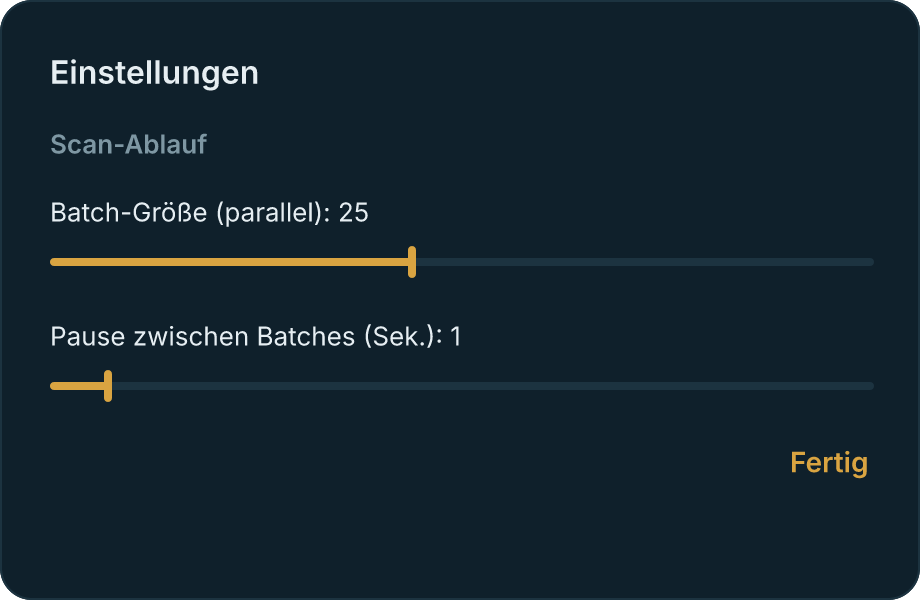
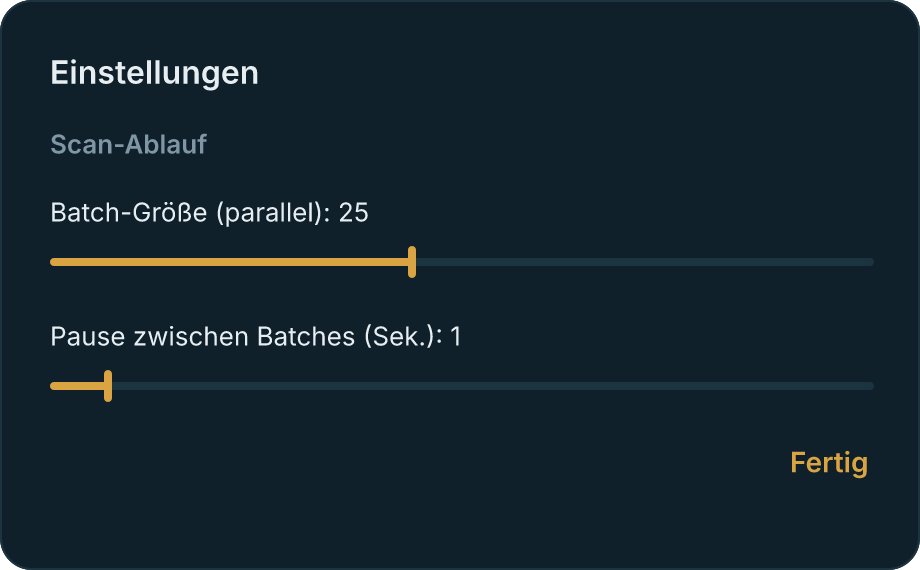
design/: Tokens an die Ebenen gebunden (577 Bindungen)
- Farb- und Text-Stiles sind jetzt verknuepft, nicht nur dokumentiert:
  Hauptkomponenten plus alle drei Screens (577 Ebenen). Der Inspektor zeigt
  den Token-Namen, eine Aenderung des Stiles wirkt in allen Instanzen
- Binding ueber die Werte zugeordnet: Fills/Strokes nach Hex, Text-Stile
  nach Font/Style/Size (12pt wird ueber die Farbe zwischen Dim und
  Table Cell unterschieden)
- Neu: Typo/Button (Inter SemiBold 14/20) fuer Button-Beschriftungen
- Instanzen erben die Tokens; eigene Werte (Text, Zellfarben) bleiben
  als Override erhalten

diff --git a/design/README.md b/design/README.md
@@ -112,8 +112,17 @@ Für die Anbindung per MCP (Agenten steuern FigCraft): siehe `AGENTS.md` bzw.
 Die Score-Zelle zeigt in beiden Modi die Zahl **und** einen Messing-Fortschrittsbalken
 der Quote (z. B. 4/5 = 80 %) — so wie die App ihn rendert.
 
+## Tokens
+
+Die Farb- und Text-Stiles sind an die Ebenen **gebunden** (nicht nur dokumentiert):
+577 Bindungen über die drei Screens plus die Hauptkomponenten. Ein Blick in den
+Inspektor zeigt den Token-Namen (`Farbe/Messing`, `Typo/Table Cell`), und eine
+Änderung des Stiles wirkt in allen Instanzen.
+
+Neu dazu: `Typo/Button` (Inter SemiBold 14/20) für Button-Beschriftungen.
+
 ## Aktualisieren
 
-Farb-/Text-Stiles sind im Dokument angelegt (`Farbe/…`, `Typo/…`). Ändert sich das
-Theme im Code, hier die betroffenen Swatches/Stiles anpassen und die Screens
-exportieren (`file.export`, siehe `screens/`).
+Ändert sich das Theme im Code, hier die Stiles anpassen (`Farbe/…`, `Typo/…`) –
+alle gebundenen Ebenen ziehen mit. Danach die Screens exportieren
+(`file.export`, siehe `screens/`).
